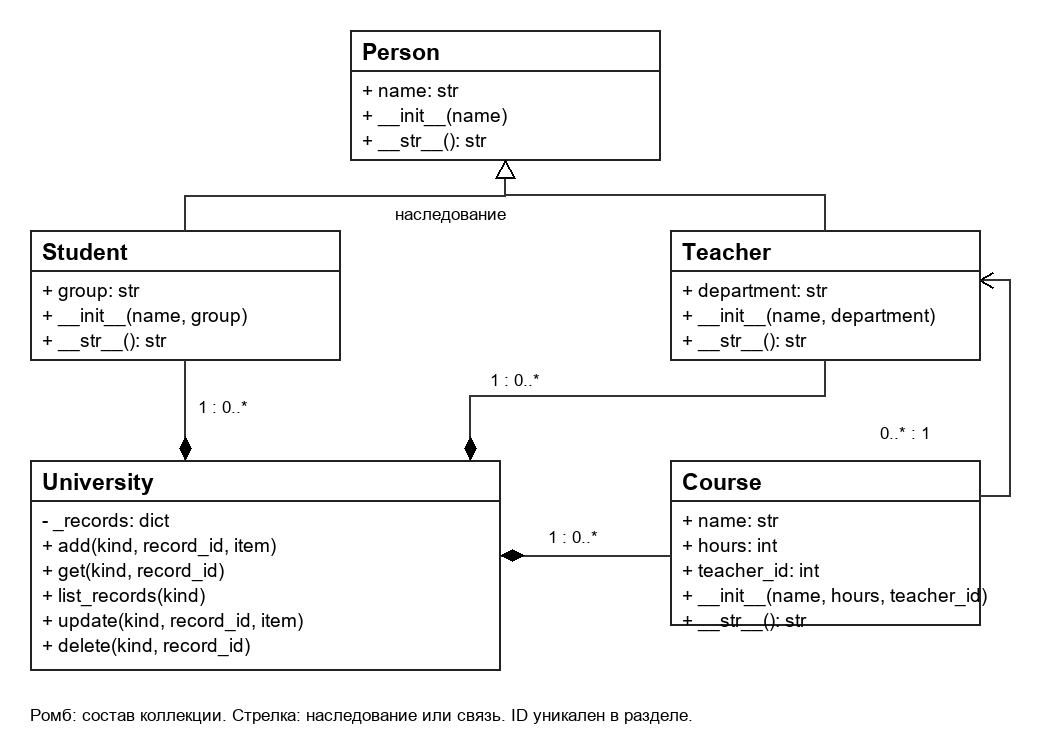
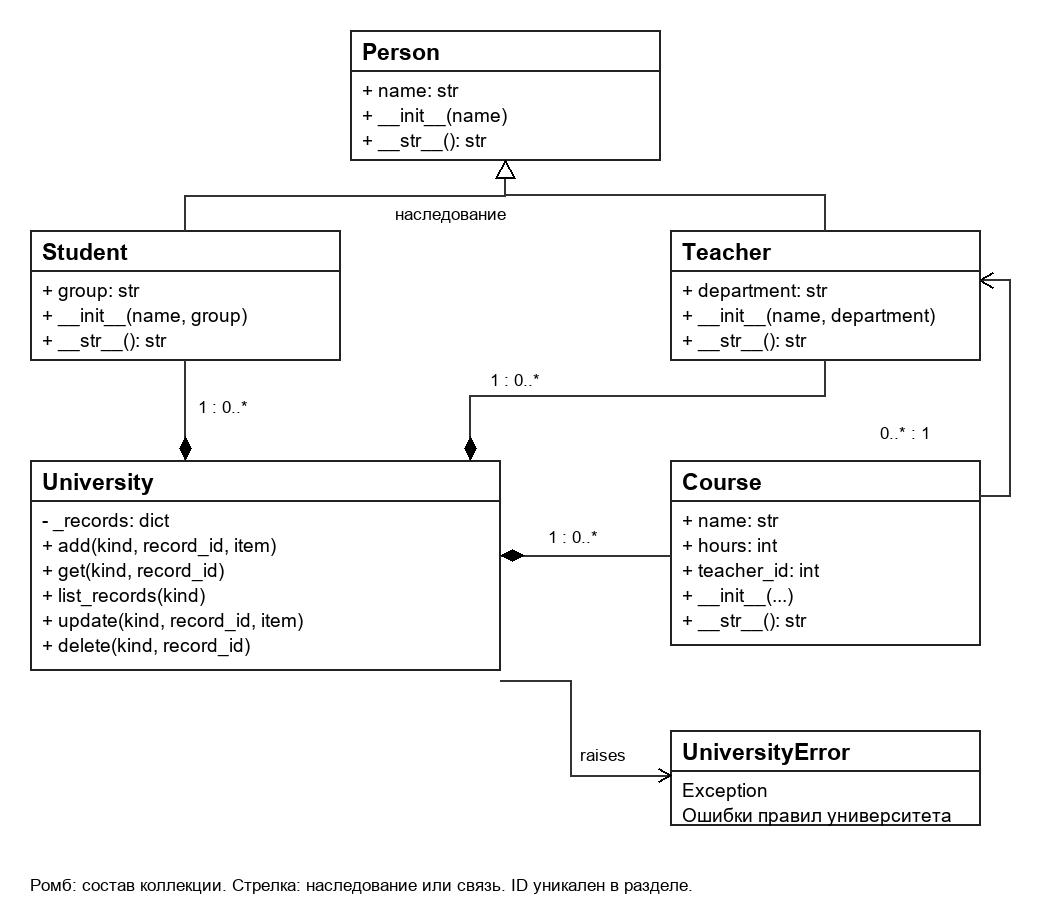
Добавлено меню и обработка ошибок университета

diff --git a/main.py b/main.py
@@ -1,0 +1,59 @@
+"""Консольное меню. Запуск: python main.py."""
+
+from models import Course, Person, Student, Teacher
+from university import University, UniversityError
+
+
+def read_item(kind: str) -> Person | Course:
+    name = input("Имя или название: ")
+    if kind == "students":
+        return Student(name, input("Группа: "))
+    if kind == "teachers":
+        return Teacher(name, input("Кафедра: "))
+    hours = int(input("Количество часов: "))
+    teacher_id = int(input("ID преподавателя: "))
+    return Course(name, hours, teacher_id)
+
+
+def main() -> None:
+    university = University()
+    sections = {"1": "students", "2": "teachers", "3": "courses"}
+    print("Университет. Данные хранятся в памяти до завершения программы.")
+    while True:
+        try:
+            print("\n1 — Студенты; 2 — Преподаватели; 3 — Курсы; 0 — Выход")
+            choice = input("Раздел: ").strip()
+            if choice == "0":
+                break
+            kind = sections[choice]
+            print("1 — Список; 2 — Добавить; 3 — Изменить; 4 — Удалить")
+            action = input("Действие: ").strip()
+            if action == "1":
+                records = university.list_records(kind)
+                if not records:
+                    print("Нет записей.")
+                for record_id, item in records:
+                    print(f"{record_id}: {item}")
+            elif action in ("2", "3", "4"):
+                record_id = int(input("ID: "))
+                if action == "2":
+                    university.add(kind, record_id, read_item(kind))
+                elif action == "3":
+                    university.get(kind, record_id)
+                    university.update(kind, record_id, read_item(kind))
+                else:
+                    university.delete(kind, record_id)
+                print("Готово.")
+            else:
+                print("Неизвестное действие.")
+        except (UniversityError, ValueError, TypeError) as error:
+            print(f"Ошибка: {error}")
+        except KeyError:
+            print("Неизвестный раздел.")
+        except (EOFError, KeyboardInterrupt):
+            print("\nРабота завершена.")
+            break
+
+
+if __name__ == "__main__":
+    main()

diff --git a/university.py b/university.py
@@ -5,6 +5,10 @@ from models import Course, Person, Student, Teacher, check_number
 TYPES = {"students": Student, "teachers": Teacher, "courses": Course}
 
 
+class UniversityError(Exception):
+    """Нарушение правил работы с записями университета."""
+
+
 class University:
     def __init__(self) -> None:
         self._records: dict[str, dict[int, Person | Course]] = {
@@ -13,13 +17,21 @@ class University:
 
     def add(self, kind: str, record_id: int, item: Person | Course) -> None:
         check_number(record_id)
-        if not isinstance(item, TYPES[kind]):
-            raise TypeError("Тип объекта не соответствует разделу.")
+        self._check_item(kind, item)
         if record_id in self._records[kind]:
-            raise ValueError("Этот ID уже занят.")
+            raise UniversityError("Этот ID уже занят.")
         self._records[kind][record_id] = item
 
+    def _check_item(self, kind: str, item: Person | Course) -> None:
+        if type(item) is not TYPES[kind]:
+            raise TypeError("Тип объекта не соответствует разделу.")
+        if isinstance(item, Course):
+            self.get("teachers", item.teacher_id)
+
     def get(self, kind: str, record_id: int) -> Person | Course:
+        check_number(record_id)
+        if record_id not in self._records[kind]:
+            raise UniversityError(f"В разделе {kind} нет ID {record_id}.")
         return self._records[kind][record_id]
 
     def list_records(self, kind: str) -> list[tuple[int, Person | Course]]:
@@ -28,9 +40,13 @@ class University:
     def update(self, kind: str, record_id: int,
                item: Person | Course) -> None:
         self.get(kind, record_id)
-        if not isinstance(item, TYPES[kind]):
-            raise TypeError("Тип объекта не соответствует разделу.")
+        self._check_item(kind, item)
         self._records[kind][record_id] = item
 
     def delete(self, kind: str, record_id: int) -> None:
+        self.get(kind, record_id)
+        if kind == "teachers":
+            for course in self._records["courses"].values():
+                if course.teacher_id == record_id:
+                    raise UniversityError("Сначала удалите или измените курсы.")
         del self._records[kind][record_id]
